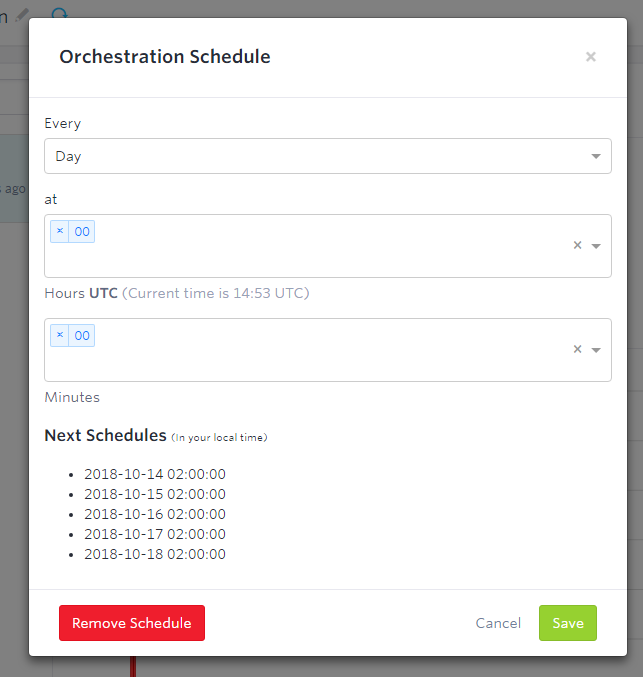
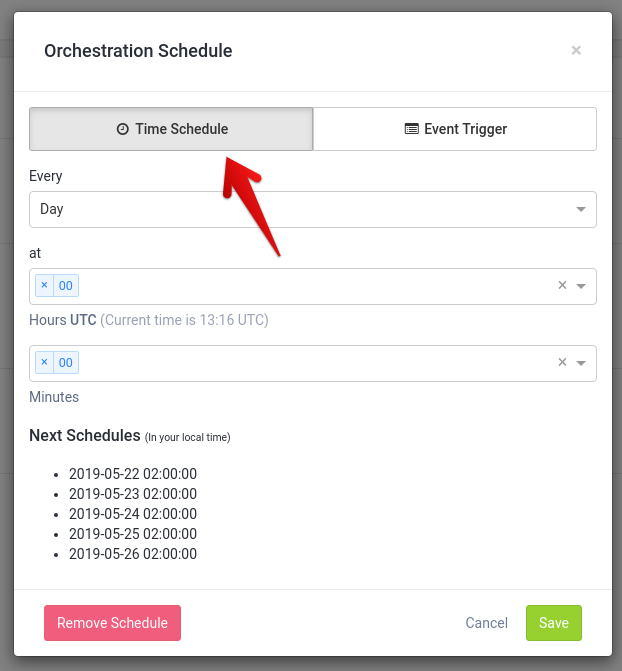
Docs for event trigger orchestrations

diff --git a/orchestrator/running/index.md b/orchestrator/running/index.md
@@ -52,6 +52,10 @@ the orchestration **Schedule**:
 {: .image-popup}
 ![Screenshot - Orchestration Schedule](/orchestrator/running/orchestration-main-3.png)
 
+You can select from 2 types of scheduling:
+
+### 1 Time schedule
+
 The orchestration schedule is set in [Coordinated Universal Time (UTC)](https://en.wikipedia.org/wiki/Coordinated_Universal_Time)
 so that the orchestration always runs in a single unambiguous point in time. For clarity, the schedule is displayed in your local time.
 Keep in mind that other users may see different schedules. These may even differ during the year because of [DST](https://en.wikipedia.org/wiki/Daylight_saving_time).
@@ -66,6 +70,27 @@ still running), the newly created orchestration job will be [waiting](/managemen
 the previous one finishes. This means that if you have an orchestration running for one hour, and you schedule 
 it to run every 30 minutes, you'll still have your tables updated only every hour. Plus you'll also clog 
 the project with waiting jobs.
+
+### 2 Event trigger
+
+Instead of time basing your orchestration execution on exact time, you can watch for a set of table and execute the orchestration
+after the set of table is updated.
+
+{: .image-popup}
+![Screenshot - Event Trigger](/orchestrator/running/event-trigger.png)
+
+When the watched table is updated, then scheduler check other watched tables if they have been also updated
+since last orchestration run. If all tables have been update since last orchestration execution, then orchestration will be executed. 
+If your tables are updated very often you can use cool down period to avoid too often execution and all updates events will 
+be ignored (can't execute orchestration) inside this period.
+
+For example if your tables are updated every 10 minutes and you are good with 1 hour old data set cool down period to 50 minutes and
+your data will be approximately update every 50-60 minutes instead of every 10 minutes.
+
+The best advantage of **Event Trigger** orchestration is using this type of scheduling inside projects, where you use data from shared buckets.
+You don't need to know when data in shared buckets are going to be updated (like you need to know in **Time Schedule**) and you can just simply
+wait for update event on tables inside shared bucket and as soon as they are update you can run your own orchestrations. 
+
 
 ## Orchestration Execution
 An orchestration is designed to run unattended. That means that a new [API Token](/management/project/tokens/) is created automatically when
